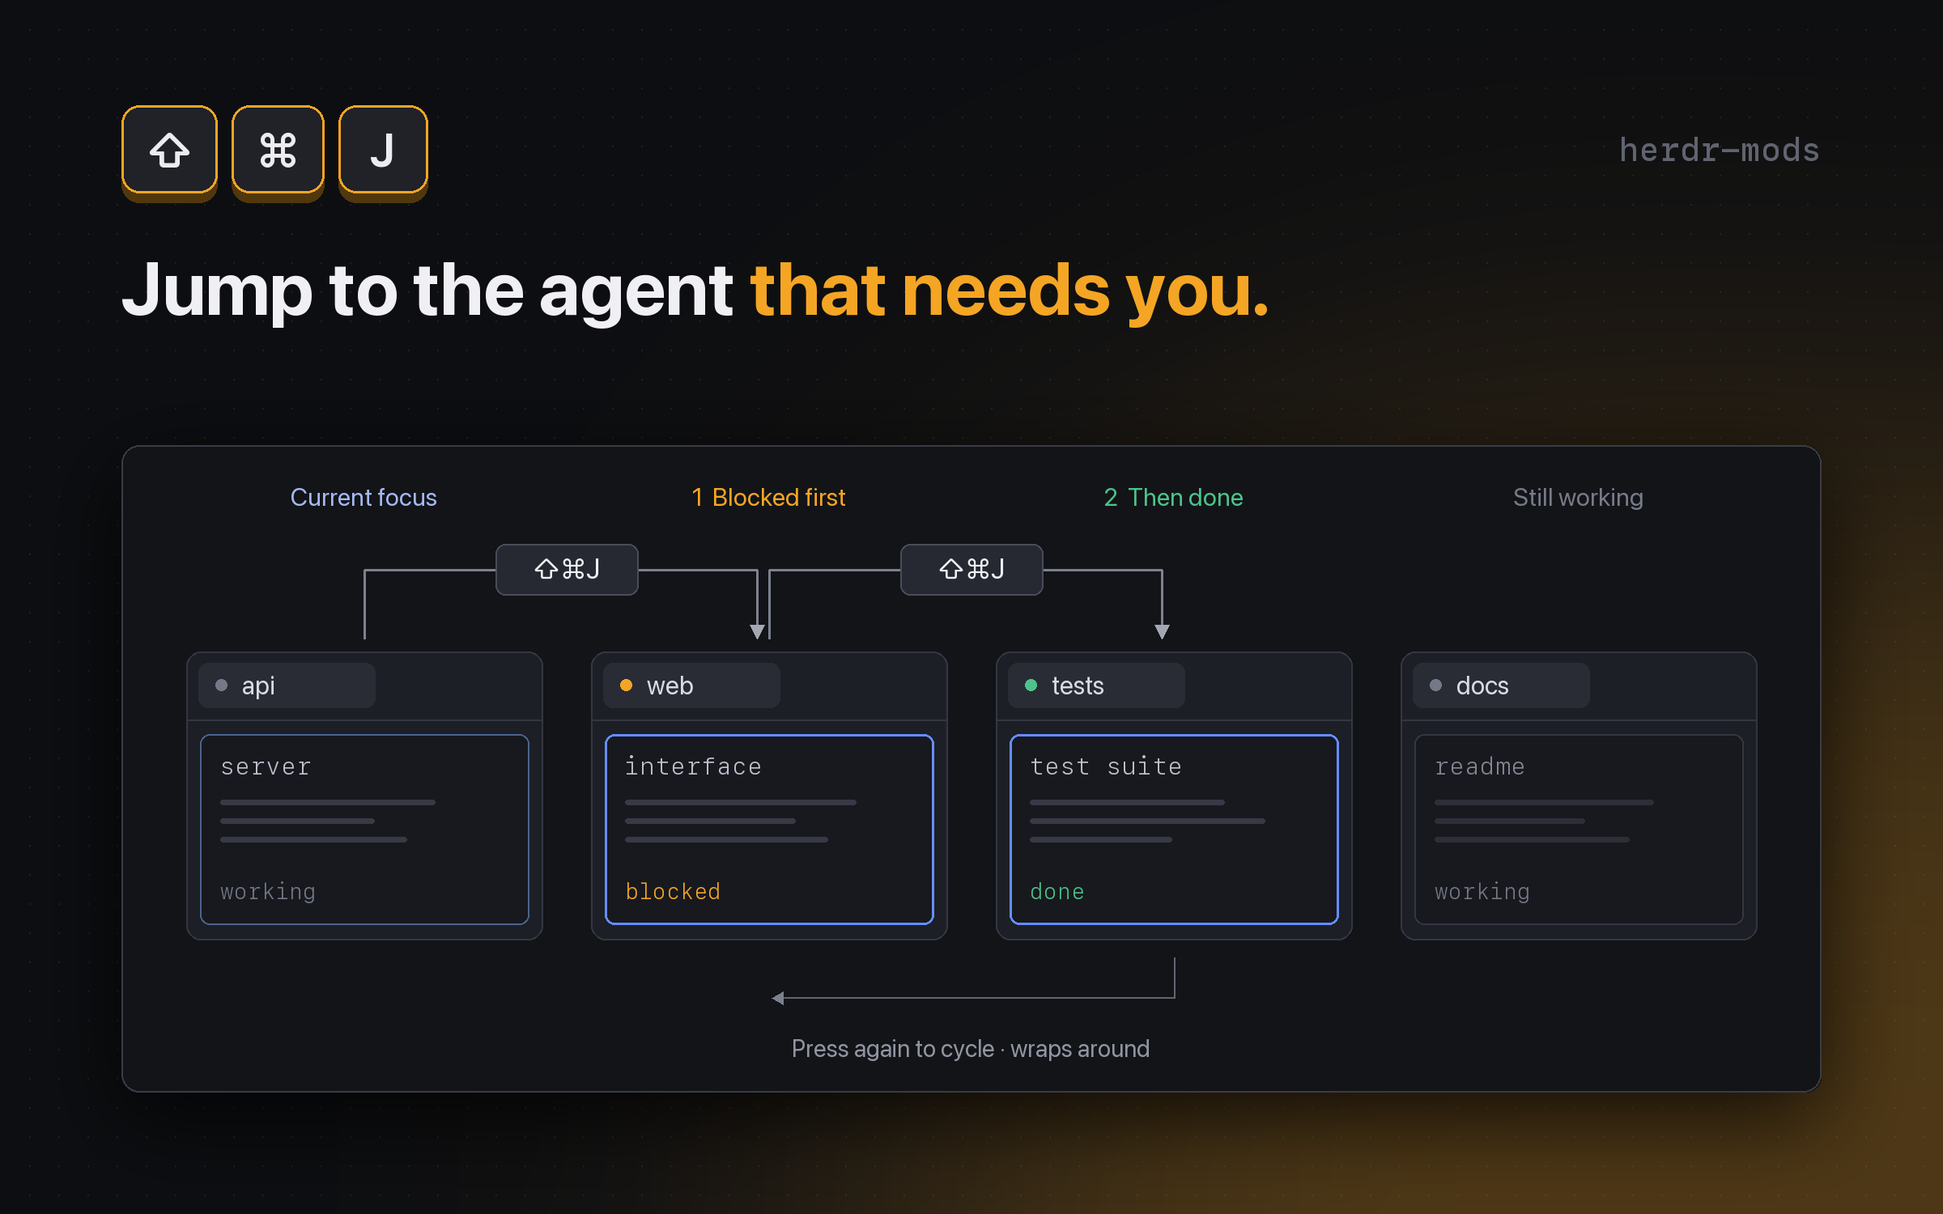
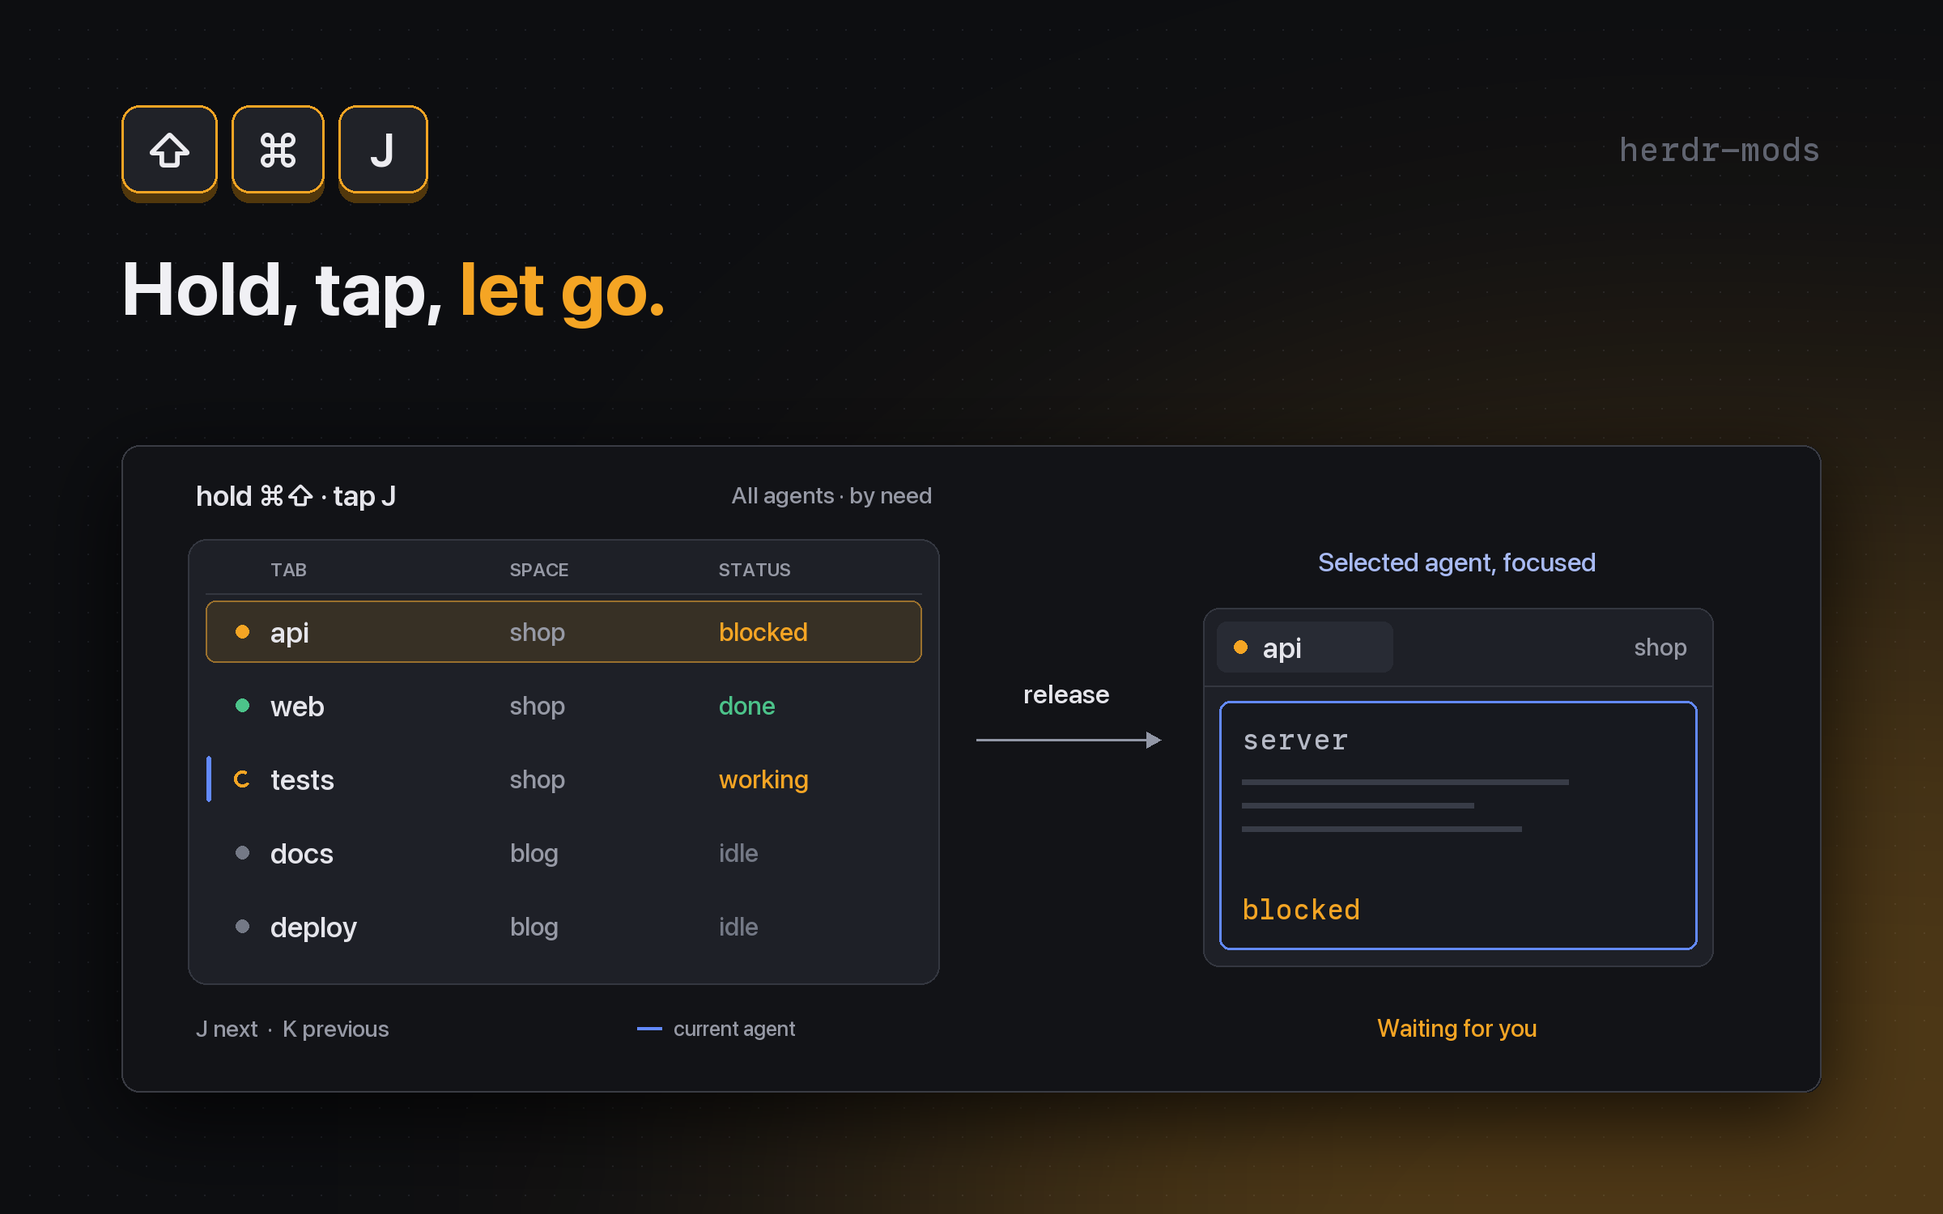
attn-next: hold cmd-shift, tap J to pick from every agent sorted by need, let go to jump

diff --git a/attn-next/mods/attn-next/main.js b/attn-next/mods/attn-next/main.js
@@ -1,18 +1,103 @@
-// cmd-shift-j: focus the next agent that needs me (blocked first, then done).
+// cmd-shift-j: agent switcher. Hold cmd+shift, tap J to move down (keys.json "mod:attn-next" routes it
+// here while the popup has focus), let go to jump. Click/Enter jump, Esc closes.
 import { View, div } from "gpui-kit";
-import { run, props, closeOverlay, agents, notify } from "herdr";
-import { pickNext } from "./pick.js";
+import { v_flex, h_flex } from "gpui-base";
+import { exec, run, nextCommand, props, closeOverlay, agents, theme, fonts, settings } from "herdr";
+import { sortAgents, initialIndex, move } from "./pick.js";
+
+const NERD_FONT = "JetBrainsMono Nerd Font";
+const ICONS = { dot: "\u{f111}" };
+const iconFont = () => (fonts().includes(NERD_FONT) ? NERD_FONT : settings().font_family ?? "JetBrains Mono");
+const glyph = (color, icon) => div().flex_none().font_family(iconFont()).when(Boolean(color), (el) => el.text_color(color)).child(icon);
+
+// Quick tap: no event says the modifiers are already up, so ask macOS for the global flags (NSEvent.modifierFlags).
+const CMD = 1 << 20;
+async function cmdHeld() {
+  const r = await exec("osascript", ["-l", "JavaScript", "-e", 'ObjC.import("Cocoa"); $.NSEvent.modifierFlags']);
+  const flags = Number.parseInt(r.stdout.trim(), 10);
+  return Number.isNaN(flags) ? true : (flags & CMD) !== 0; // unreadable: assume held, events will decide
+}
 
 export default class AttnNext extends View {
-  init() {
-    const overlay = props()?.overlay;
-    if (overlay) closeOverlay(overlay);
-    const next = pickNext(agents());
-    if (next) run("agent.focus", { terminal: next.address });
-    else notify({ title: "No agent needs you", timeout: 2000 });
+  init(_props, cx) {
+    const live = agents();
+    this.rows = sortAgents(live);
+    this.at = initialIndex(live);
+    this.done = false;
+    this.seen = false; // any event with its modifiers has reached us
+    this.handle = cx.focus_handle();
+    this.handle.focus();
+    // Ask once now; once the popup has the keyboard, ask again (released in between). Held: events take over.
+    cx.spawn(async () => {
+      if (!(await cmdHeld()) && !this.seen) return this.go();
+      if (this.done || this.seen || !this.handle.is_focused()) return;
+      if (!(await cmdHeld()) && !this.seen) this.go();
+    });
+    cx.spawn(async (cx) => {
+      for (;;) {
+        const c = await nextCommand();
+        if (this.done) return;
+        if (c === "focus") this.handle.focus();
+        else if (c === "next" || c === "prev") {
+          // A command from keys.json means cmd+shift were down when it fired.
+          this.seen = true;
+                this.at = move(this.at, c === "next" ? 1 : -1, this.rows.length);
+          cx.notify();
+        }
+      }
+    });
   }
 
-  render() {
-    return div();
+  // Every key/modifier event carries the modifiers: cmd up means go, cmd down proves they are held.
+  observe(e) {
+    this.seen = true;
+    if (!e.modifiers.platform) this.go();
+  }
+
+  cleanup() {
+    this.done = true;
+    closeOverlay(props()?.overlay);
+  }
+
+  go() {
+    if (this.done) return;
+    const a = this.rows[this.at];
+    this.cleanup();
+    if (a) run("agent.focus", { terminal: a.address });
+  }
+
+  async close() {
+    this.done = true;
+    this.handle?.release?.();
+  }
+
+  render(cx) {
+    const t = theme();
+    const color = { working: t.working, blocked: t.blocked, done: t.done, idle: t.idle };
+    const word = { blocked: "blocked", done: "done", working: "working", idle: "idle" };
+    return v_flex().id("attn-next").track_focus(this.handle).w_full().p(6).gap(1).bg(t.popover).text_size(13)
+      .on_modifiers_changed((e) => this.observe(e))
+      .on_key_up((e) => this.observe(e))
+      .on_key_down((e, cx) => {
+        this.observe(e);
+        if (this.done) return;
+        if (e.key === "enter") this.go();
+        else if (e.key === "escape") this.cleanup();
+        else if (e.key === "down") this.at = move(this.at, 1, this.rows.length);
+        else if (e.key === "up") this.at = move(this.at, -1, this.rows.length);
+        else return;
+        cx.notify();
+      })
+      .when(!this.rows.length, (el) => el.child(div().p(10).text_color(t.muted).child("No agents")))
+      .children(this.rows.map((a, i) => h_flex().id(`row-${a.address}`).h(32).px(10).gap(10).items_center().rounded(7)
+        .when(i === this.at, (el) => el.bg(t.selected))
+        .hover((s) => s.bg(t.hover))
+        .on_click(() => { this.at = i; this.go(); })
+        // where you are now: an accent bar on the left, like the sidebar's current item
+        .child(div().flex_none().w(3).h(16).rounded(2).when(Boolean(a.focused), (el) => el.bg(t.accent)))
+        .child(glyph(color[a.status] ?? t.unknown, ICONS.dot).text_size(9))
+        .child(div().flex_1().min_w(0).truncate().text_color(t.foreground).child(a.tab_name || a.program?.name || a.address))
+        .child(div().flex_none().max_w(140).truncate().text_size(11.5).text_color(t.dim).child(a.space_name))
+        .child(div().flex_none().w(56).text_size(11.5).text_color(color[a.status] ?? t.dim).child(word[a.status] ?? a.status))));
   }
 }

diff --git a/attn-next/mods/attn-next/pick.js b/attn-next/mods/attn-next/pick.js
@@ -1,13 +1,28 @@
-// Agents that need the user: blocked first, then done, each by seq. Sub-agents are agents() rows too.
-export function queue(agents) {
-  const by = (s) => agents.filter((a) => a.status === s).sort((a, b) => a.seq - b.seq);
-  return [...by("blocked"), ...by("done")];
+// Switcher order. Nothing blocked or done: Herdr's own agents order (the sidebar's, what cmd-] walks).
+// Otherwise what needs me first: blocked, done, working, idle; inside a group, the agents order again.
+const RANK = { blocked: 0, done: 1, working: 2 };
+const rank = (a) => RANK[a.status] ?? 3;
+
+export function sortAgents(agents) {
+  if (!agents.some((a) => rank(a) < 2)) return [...agents];
+  const at = new Map(agents.map((a, i) => [a, i]));
+  return [...agents].sort((a, b) => rank(a) - rank(b) || at.get(a) - at.get(b));
 }
 
-// The next one after the focused agent, wrapping; the first when the focused one isn't queued; null when empty.
-export function pickNext(agents) {
-  const q = queue(agents);
-  if (!q.length) return null;
-  const i = q.findIndex((a) => a.focused);
-  return q[(i + 1) % q.length];
+const needsMe = (a) => a.status === "blocked" || a.status === "done";
+
+// Which row of the sorted list starts selected.
+// Something needs me: the first row, or the second when the first is where I already am.
+// Nothing does: the agent after the focused one in agents() order (what agent.next does), wrapping.
+export function initialIndex(agents) {
+  const rows = sortAgents(agents);
+  if (rows.length < 2) return 0;
+  if (rows.some(needsMe)) return rows[0].focused ? 1 : 0;
+  const f = agents.findIndex((a) => a.focused);
+  const next = agents[(f + 1) % agents.length];
+  return Math.max(0, rows.indexOf(next));
+}
+
+export function move(at, by, n) {
+  return n ? (((at + by) % n) + n) % n : 0;
 }

diff --git a/attn-next/RECIPE.md b/attn-next/RECIPE.md
@@ -1,47 +1,60 @@
 # Attn next
 
-`cmd-shift-j` jumps to the next agent that needs you: waiting for input first, then finished.
+Hold `cmd-shift`, tap `J`: a popup lists every agent, the ones that need you first. Let go of cmd to jump.
 
 ![Attn next](preview.png)
 
 ## What you see
 
-Almost nothing. The mod is declared as a popup (`mod.json`: `place: "none"`, title `Next agent needing me`, overlay kind `popup`, width `1`, height `1`), and `render()` returns an empty `div()`. The popup is closed inside `init()`, so what you see is the result: focus moving to another agent, or a short toast when no agent needs you.
+A popup at the top of the window (`mod.json`: `place: "none"`, title `Agent switcher`, overlay kind `popup`, `at: "top"`, offset 40, width 520, height 0.6, `focusable: true`). It lists all agents, one row per agent, 32 px high:
+
+- An accent bar on the left, drawn only on the agent you are on now (`focused`), like the sidebar's current item.
+- A status dot, coloured by status (`working`, `blocked`, `done`, `idle`, with `unknown` as fallback).
+- The agent's name (`tab_name`, else `program.name`, else the address).
+- The space name, dimmed.
+- The status word.
+
+The current selection has the theme's `selected` background; hovering a row uses `hover`. With no agents the popup shows "No agents".
 
 ## How it behaves
 
-- `cmd-shift-j` (bound under `global` in `keys.json` to `mod.open:attn-next`) opens the mod. `init()` runs once per key press and does everything:
-  1. If the mod was opened as an overlay (`props().overlay` is set), closes that overlay with `closeOverlay`.
-  2. Reads every agent with `agents()` and builds the queue (`queue()` in `pick.js`): agents whose `status` is `blocked` first, then agents whose `status` is `done`, each group sorted by `seq`. Sub-agents are rows of `agents()` too, so they are queued like any other.
-  3. Picks the next one (`pickNext()`): the entry after the agent with `focused` set, wrapping around to the start of the queue. If the focused agent is not in the queue, it picks the first entry.
-  4. If there is one, runs `agent.focus` with `{ terminal: next.address }`.
-  5. If the queue is empty, shows a toast with `notify`: title `No agent needs you`, timeout 2000 ms.
-- Pressing the key again moves on to the following agent in the queue, so repeated presses walk through everything that needs you.
-- No confirmation, no animation, and no state kept between presses.
+- **Order** (`sortAgents()` in `pick.js`). If no agent is `blocked` or `done`, the order is Herdr's own `agents()` order (what `cmd-]` walks). Otherwise: blocked, then done, then working, then idle, with the `agents()` order kept inside each group.
+- **Initial selection** (`initialIndex()`).
+  - Fewer than two rows: the first row.
+  - Something is blocked or done: the first row, or the second when the first row is the agent you are already on.
+  - Nothing is blocked or done: the agent after the focused one in `agents()` order, wrapping around, like `cmd-]`.
+- **Moving.** While you hold `cmd-shift`, `J` moves down and `K` moves up, wrapping at both ends. These come from the `mod:attn-next` key section in `keys.json`, which maps them to `attn-next.next` and `attn-next.prev`; the view reads them with `nextCommand()`. Arrow keys also move.
+- **Jumping.** Releasing cmd fires `on_modifiers_changed` with the platform modifier cleared, and the mod runs `agent.focus` with `{ terminal: address }` for the selected row and closes the popup. Enter and a click on a row do the same. `Esc` closes without jumping.
+- **Quick tap.** If you let go of cmd before the popup has the keyboard, no event ever reports it. So the mod asks macOS for the current modifier flags with `osascript -l JavaScript` (`ObjC.import("Cocoa"); $.NSEvent.modifierFlags`, cmd bit `1 << 20`). It asks once when the popup opens and once more after the popup has focus. If cmd is already up it jumps at once. There are no timers.
+- **Held proof.** Any key or modifier event, or a `next`/`prev` command, shows cmd was down, so a later "up" is trusted from events alone.
 
 ## Built from
 
 - Files: `mods/attn-next/main.js`, `mods/attn-next/pick.js`, `mods/attn-next/mod.json`, and `keys.json`. `jsconfig.json` and `gpui-kit.d.ts` in the folder are generated by Herdr and are not needed in a fresh build.
-- `main.js`: one class `AttnNext extends View` (from `gpui-kit`, with `div`), with `init()` and `render()`.
-- `pick.js`: two pure functions, `queue(agents)` and `pickNext(agents)`, with no `herdr` imports so they can be tested under Node.
-- `herdr` functions used: `agents()`, `props()`, `closeOverlay()`, `run()`, `notify()`.
+- `main.js`: one class `AttnNext extends View` with `init()`, `observe()`, `go()`, `cleanup()`, `close()` and `render()`, plus a `cmdHeld()` helper.
+- `pick.js`: three pure functions, `sortAgents()`, `initialIndex()` and `move()`, with no `herdr` imports so they can be tested under Node.
+- `herdr` functions used: `exec()`, `run()`, `nextCommand()`, `props()`, `closeOverlay()`, `agents()`, `theme()`, `fonts()`, `settings()`.
 - Command called: `agent.focus` with `{ terminal }`.
-- `keys.json`: `{ "global": { "cmd-shift-j": "mod.open:attn-next" } }`.
-- No external programs, no files, no art.
+- External program: `osascript`, only for the quick-tap check.
+- `keys.json`: the global `cmd-shift-j` binding to `mod.open:attn-next`, and a `mod:attn-next` section with `cmd-shift-j` to `attn-next.next` and `cmd-shift-k` to `attn-next.prev`.
+- The status dot is a Nerd Font glyph when `JetBrainsMono Nerd Font` is installed, else the app font.
 
 ## Watch out
 
 - **Folder name.** The key is `mod.open:attn-next`, so the folder must be `mods/attn-next/`.
-- **It takes `cmd-shift-j`.** If that key is already bound in `keys.json`, ask before replacing it.
-- **Focus without selecting first.** `agent.focus` is called with the terminal address only; the mod does not select the space or tab beforehand. Other mods do the same. Behaviour when the target agent is in another space has not been verified.
-- **Order is by `seq`, not by how long an agent has waited.** `blocked` always comes before `done`, whatever the `seq` values.
-- **Gaps.** No configuration, no way to dismiss a `done` agent from the queue other than the agent's own status changing.
+- **The `mod:attn-next` key section is required.** Without it, `J` and `K` while holding `cmd-shift` do not reach the popup and you cannot move the selection by holding the modifiers.
+- **macOS only for the quick tap.** `osascript` and `NSEvent.modifierFlags` exist only on macOS. Elsewhere the quick-tap check cannot run.
+- **If `osascript` fails** or prints something that is not a number, cmd is treated as held and the mod waits for the modifier event instead. A very quick tap may then leave the popup open until you press a key or release a modifier; `Esc` closes it.
+- **It takes `cmd-shift-j`** (and `cmd-shift-k` inside the popup). If those are already bound, ask before replacing them.
+- **Focus without selecting first.** `agent.focus` is called with the terminal address only; behaviour when the target agent is in another space has not been verified.
 
 ## Done when
 
 - `herdr-app check mods/attn-next` passes (run from the folder that holds `mods/` and `keys.json`).
-- With one blocked agent and one done agent, `cmd-shift-j` focuses the blocked one; pressing it again focuses the done one; pressing it a third time wraps to the blocked one.
-- When the focused agent is not blocked or done, `cmd-shift-j` focuses the first agent in the queue.
-- With no blocked or done agent, `cmd-shift-j` shows the toast and focus does not change.
-- No popup stays on screen after the key press.
-- The pure logic in `pick.js` can be checked under Node: queue order (blocked, then done, each by `seq`), next after the focused agent, wrap-around, focused-not-queued gives the first, and an empty list gives `null`. The source mod keeps this as `check-pick.mjs` outside the published folder.
+- With nothing blocked or done, holding `cmd-shift` and tapping `J` shows every agent in `agents()` order with the agent after yours selected; releasing cmd focuses it.
+- With a blocked and a done agent, the popup lists blocked, done, working, idle, and the first row that is not you starts selected.
+- Holding `cmd-shift` and tapping `J` or `K` moves the selection and wraps.
+- A quick tap (cmd released at once) still jumps.
+- `Esc` closes without changing focus; Enter and a click jump.
+- The accent bar sits on the agent you were on.
+- The pure logic in `pick.js` can be checked under Node: order with and without blocked/done agents, the initial selection rules, and wrap-around in `move()`. The source mod keeps this as `check-pick.mjs` outside the published folder.

diff --git a/attn-next/README.md b/attn-next/README.md
@@ -1,26 +1,34 @@
 # Attn next
 
-`cmd-shift-j` jumps to the next agent that needs you: waiting for input first, then finished.
+Hold `cmd-shift`, tap `J`: every agent, the ones that need you first. Let go to jump.
 
 ![Attn next](preview.png)
 
 ## Features
 
-- `cmd-shift-j` focuses the next agent that is waiting for your input, and once none are, the next one that has finished.
-- Repeated presses walk through the whole list and wrap around, starting after the agent you are on.
-- A short toast tells you when no agent needs you.
-- No UI: the mod opens a 1x1 popup, acts, and closes it in the same step.
+- `cmd-shift-j` opens a popup listing all agents with their space and status.
+- Order: Herdr's own agent order when nothing is blocked or done; otherwise blocked, done, working, idle.
+- The selection starts on the first agent that is not you, or, when nothing needs you, on the agent after yours (like `cmd-]`).
+- Keep holding `cmd-shift` and tap `J` (down) or `K` (up) to move; release cmd to jump.
+- A quick tap still works: the mod checks whether cmd is already up.
+- `Esc` closes, `Enter` or a click jumps. An accent bar marks the agent you are on.
 
 ## Requirements
 
-- Herdr desktop app on macOS or Linux
+- Herdr desktop app on macOS (the quick-tap check uses `osascript`)
 
 ## Install
 
-Copy `mods/attn-next` into `~/.config/herdr-app/mods/` and merge `keys.json` into your own:
+Copy `mods/attn-next` into `~/.config/herdr-app/mods/` and merge `keys.json` into your own. Both sections are needed:
 
 ```json
-{ "global": { "cmd-shift-j": "mod.open:attn-next" } }
+{
+  "global": { "cmd-shift-j": "mod.open:attn-next" },
+  "mod:attn-next": {
+    "cmd-shift-j": "attn-next.next",
+    "cmd-shift-k": "attn-next.prev"
+  }
+}
 ```
 
 Then run `herdr-app check mods/attn-next`. Or tell your Herdr agent to add `herdr.dev/mods/iml885203/herdr-mods--attn-next`.
@@ -29,13 +37,17 @@ Then run `herdr-app check mods/attn-next`. Or tell your Herdr agent to add `herd
 
 | Key | Action |
 | --- | --- |
-| `cmd-shift-j` | Focus the next agent that is blocked, then done (wraps around) |
+| `cmd-shift-j` | Open the switcher; while open, move down |
+| `cmd-shift-k` | Move up (while open) |
+| release `cmd` | Jump to the selected agent |
+| `Enter` / click | Jump to the selected agent |
+| `Esc` | Close without jumping |
 
 ## What it runs / Safety
 
-- It calls only the Herdr command `agent.focus`, plus a toast when nothing needs you. It runs no external programs and reads and writes no files.
+- It calls the Herdr command `agent.focus`, and runs `osascript -l JavaScript` once or twice to read the current modifier flags (read-only). It reads and writes no files.
 - It only moves focus; it never answers, closes or changes an agent.
-- It takes over `cmd-shift-j`; remove the key from `keys.json` to get the old behavior back.
+- It takes over `cmd-shift-j`; remove the keys from `keys.json` to get the old behavior back.
 
 ## License
 

diff --git a/README.md b/README.md
@@ -17,7 +17,7 @@ Add-ons for the [Herdr](https://herdr.dev) desktop app.
 </tr>
 <tr>
 <td><a href="https://github.com/iml885203/orbit/tree/main/integrations/herdr-app"><img src="https://raw.githubusercontent.com/iml885203/orbit/main/integrations/herdr-app/preview.png" alt="Orbit"></a><br><b><a href="https://github.com/iml885203/orbit/tree/main/integrations/herdr-app">Orbit</a></b> <code>cmd-o</code><br>Your local Orbit environments: services, logs, traces. Lives in the Orbit repo.</td>
-<td><a href="attn-next/"><img src="attn-next/preview.png" alt="Attn next"></a><br><b><a href="attn-next/">Attn next</a></b> <code>cmd-shift-j</code><br>Jumps to the next agent that needs you: waiting for input first, then finished.</td>
+<td><a href="attn-next/"><img src="attn-next/preview.png" alt="Attn next"></a><br><b><a href="attn-next/">Attn next</a></b> <code>cmd-shift-j</code><br>Hold ⌘⇧, tap J: every agent, the ones that need you first. Let go to jump.</td>
 </tr>
 </table>
 
